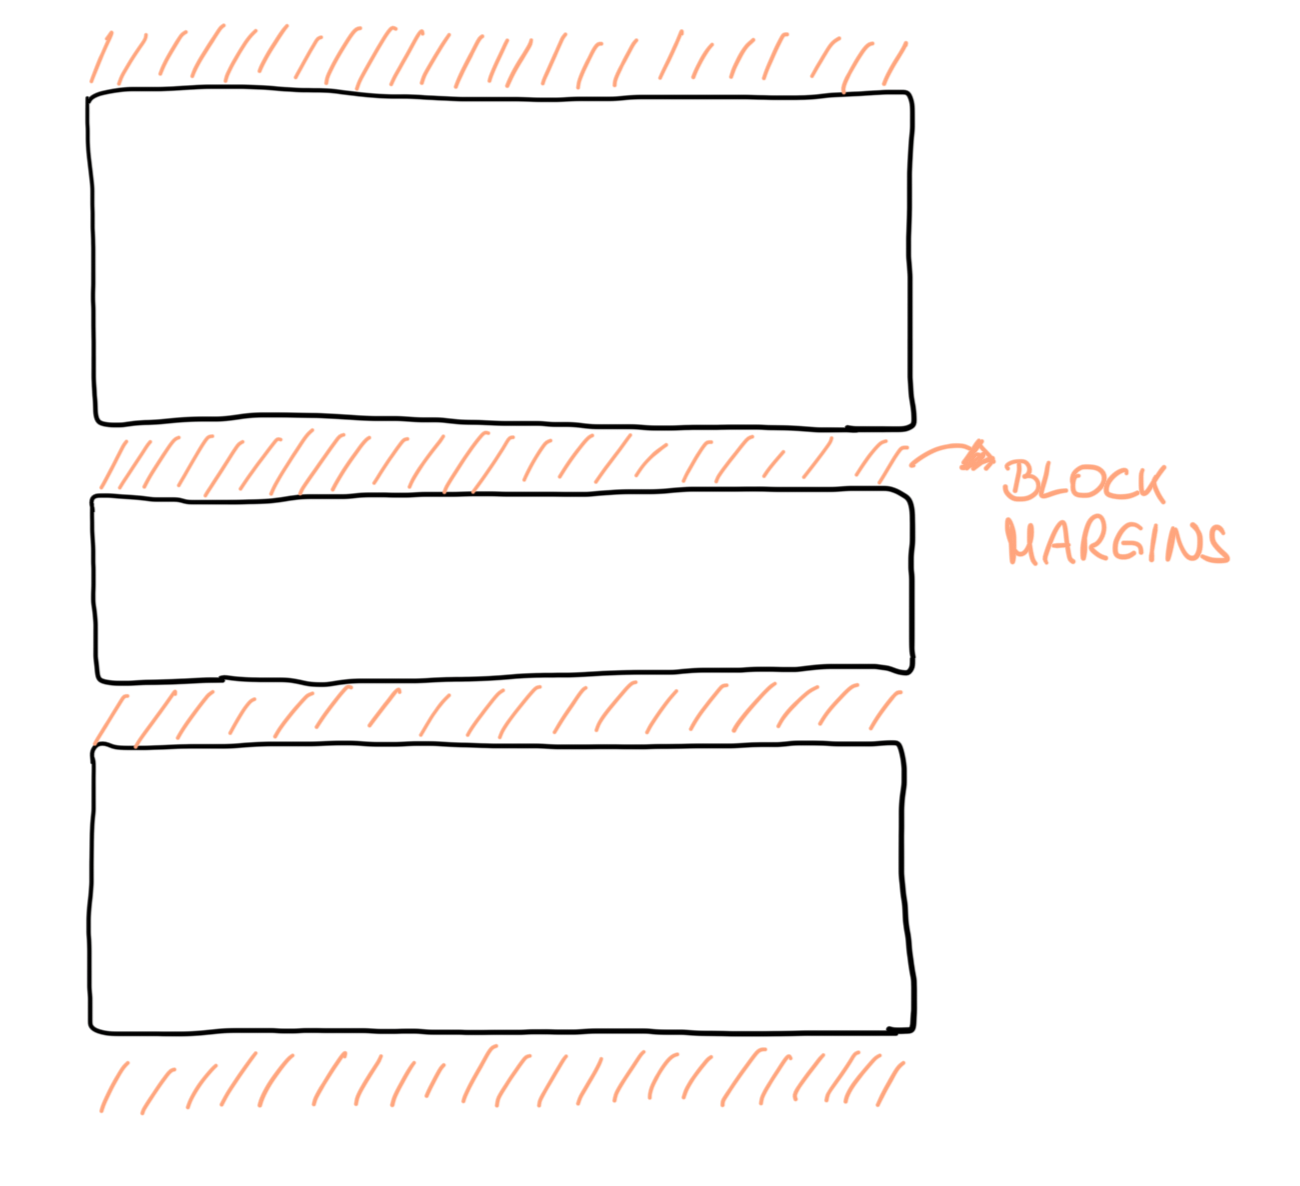
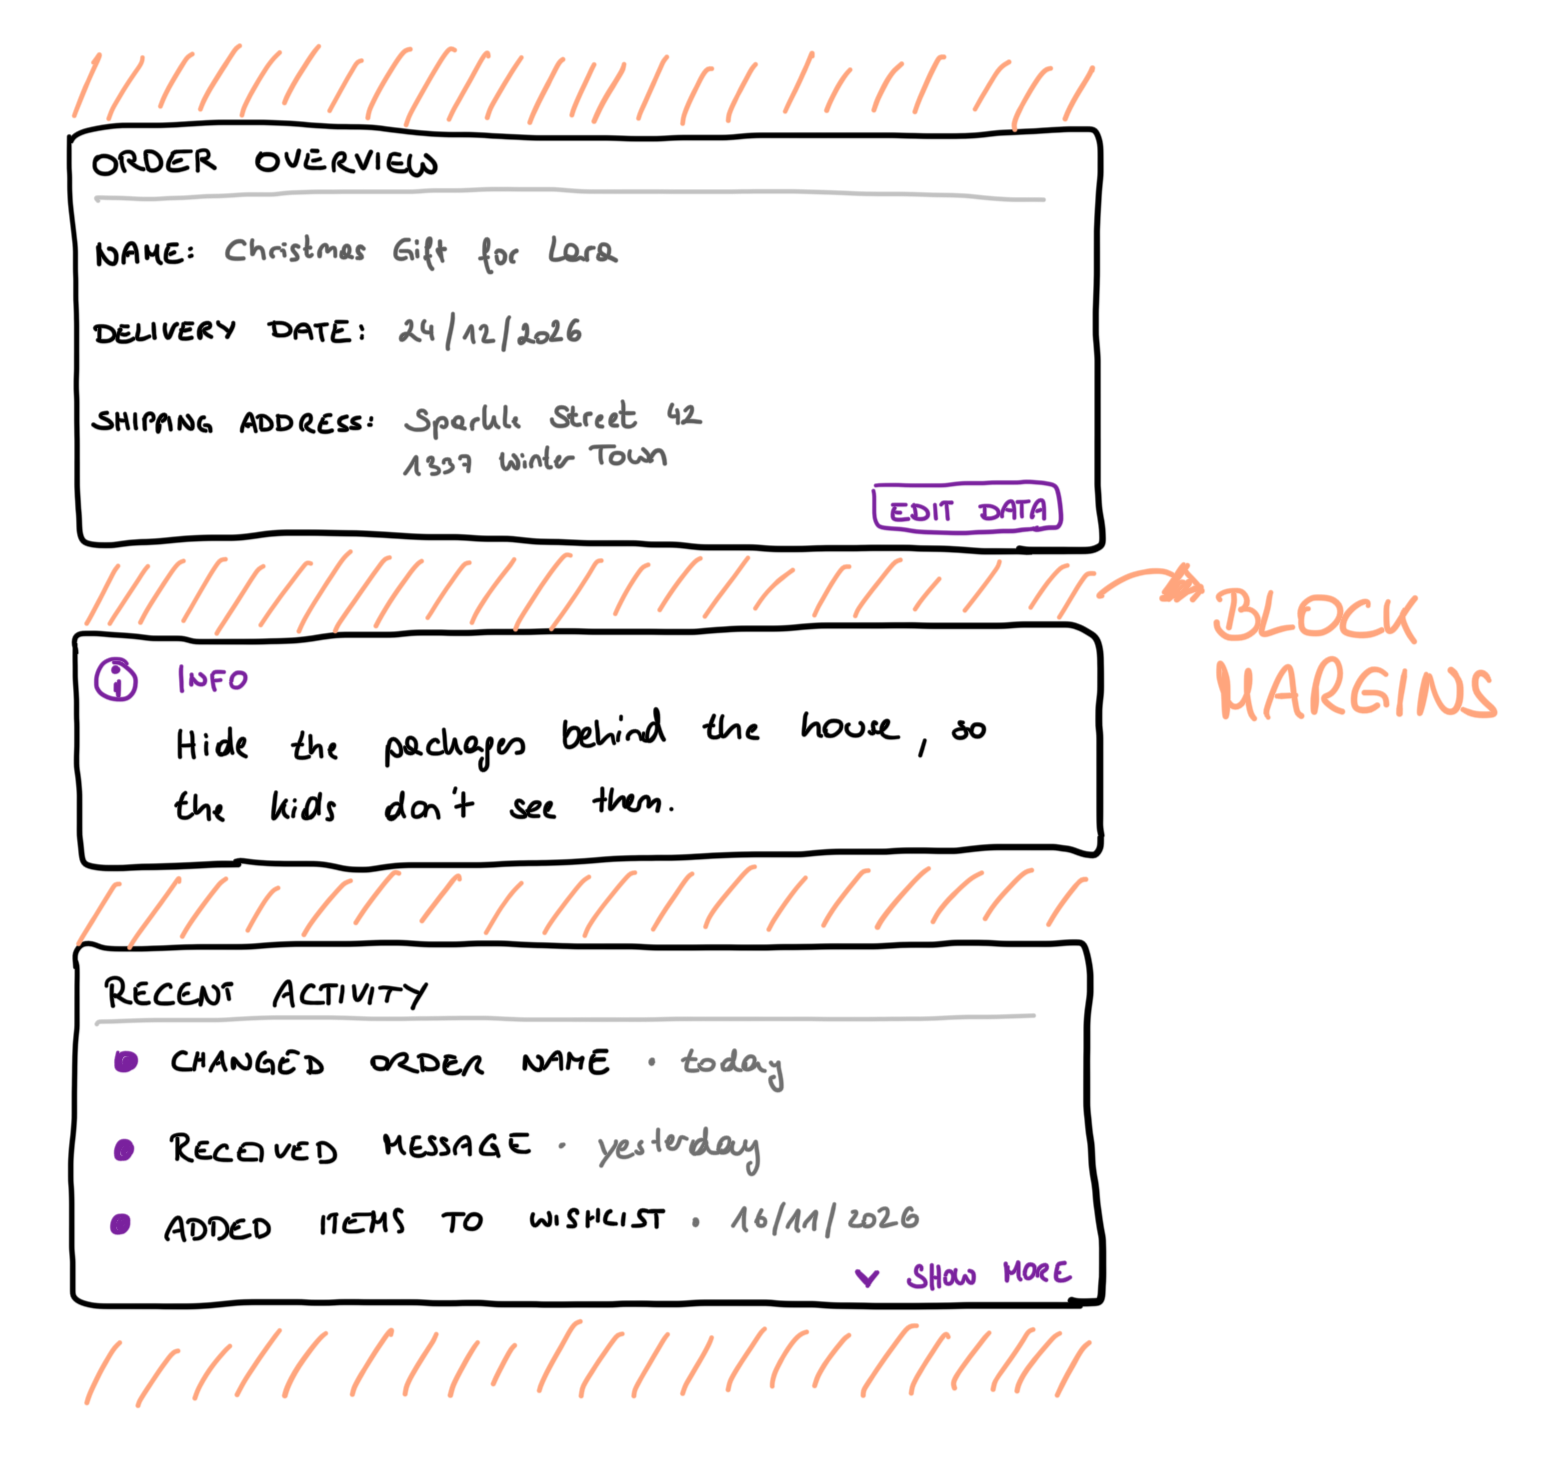
Update images according to PR review.

diff --git a/hell/adventcalendar/2026/15/index.md b/hell/adventcalendar/2026/15/index.md
@@ -29,11 +29,11 @@ In my experience, a “gut feeling” is often more helpful than rigid rules. Ne
 
 The default behavior of block elements in HTML is the following: they are stacked in block direction (usually from top to bottom). By adding block margins to these elements, we get some space between them. The element itself controls its surrounding space. This is the default behavior in a browser for certain elements (e.g., headings, paragraphs, lists) as specified by user-agent styles.
 
-![Three rectangles representing blocks of content surrounded by a hatched area representing block margins.](images/01-mind-the-gap-block-margins.png)
+![Three cards stacked on top of each other surrounded by a hatched area representing block margins. The first card contains an order overview: a christmas gift should be delivered to Lara on 24th of December 2026. The second box contains an info text saying: Hide the packages behind the house, so the kids don't see them. In the last card, the three latest activity feed entries are shown. The order name has been updated today, yesterday a message has been received and some days ago items were added to the wishlist.](images/01-mind-the-gap-block-margins.png)
 
 Often when creating layouts, we think differently: we want to have a parent element that controls the layout within. This mindset became mainstream with the introduction of CSS flexible box (flexbox) or grid layouts.
 
-![Three boxes surrounded by a dashed border that visualizes the wrapping layout component. Between the boxes are two gaps marked as a hatched area.](images/02-mind-the-gap-layout-wrapper.png)
+![Three cards stacked on top of each other surrounded by a dashed border that visualizes the wrapping layout component. Between the cards are two gaps marked as a hatched area. The first card contains an order overview: a christmas gift should be delivered to Lara at 24th of December 2026. The second box contains an info text saying: Hide the packages behind the house, so the kids don't see them. In the last card, the three latest activity feed entries are shown. The order name has been updated today, yesterday a message has been received and some days ago items were added to the wishlist.](images/02-mind-the-gap-layout-wrapper.png)
 
 Let’s say we work with a (vertical) stack component. We use it to create a consistent spacing between its child elements, for example, a stack of text content, cards or input elements:
 
@@ -56,7 +56,7 @@ Let’s say we work with a (vertical) stack component. We use it to create a con
 
 In the above examples, there is no block margin defined for `<my-text-block>`, `<my-card>` or `<my-text-input>`. The `<my-vertical-stack>` wrapper component handles the spacing between these items.
 
-![Three boxes representing input fields with a gap between each of them. In the right bottom corner sits a slightly smiling emoji.](images/03-mind-the-gap-inputs.png)
+![Three input fields (labelled order name, delivery date, and shipping address) with a gap between each of them. In the right bottom corner sits a slightly smiling emoji.](images/03-mind-the-gap-inputs.png)
 
 As time goes by, new features are requested and the markup needs to change. In the first example, we need to extend the existing text by adding another text block on top. In the second one, validation messages should appear below the input fields. Someone changes the code as follows:
 
@@ -86,7 +86,7 @@ All requirements are met, great! Well… only the functional ones. We now have s
 1. The two text blocks belong together, but they are now separated by the same spacing as the cards.
 2. The error message belongs to the preceding input field, but there’s now the same amount of whitespace between inputs and messages in both block directions.
 
-![Three boxes, each representing an input field, and black lines below them, visualizing a validation message. The elements are grouped by a single layout wrapper indicated by a dashed border. Between each input field and error message is the same amount of whitespace. In the bottom right corner is a grimacing face emoji.](images/04-mind-the-gap-inputs-errors-gaps.png)
+![Three input fields (labelled order name, delivery date, and shipping address) where the first two have a validation message below them ("The order name must be unique" after the name input and "The delivery date must be before 24/12/2026" after the date input). The elements are grouped by a single layout wrapper indicated by a dashed border. Between each input field and error message is the same amount of whitespace. In the bottom right corner is a grimacing face emoji.](images/04-mind-the-gap-inputs-errors-gaps.png)
 
 Let’s circle back to the law of proximity: elements that are related should be placed closer together.
 
@@ -123,7 +123,7 @@ To solve our layout issues, we need to introduce more markup to wrap the UI comp
 
 The `<div>` could also be replaced by `<my-vertical-stack spacing="small">`, it really depends on the context; but you get the idea! Elements that are related and belong together often require a common parent element to create the desired layouts.
 
-![Three boxes visualizing an input field. Below each box is a line representing an error message. The input field and the error message are placed closely together. After the validation message and the next input is a hatched area, representing some spacing (a gap in CSS). In the bottom right corner sits a smiling emoji with sunglasses on.](images/05-mind-the-gap-inputs-errors-grouped.png)
+![Three input fields (labelled order name, delivery date, and shipping address) where the first two have a validation message below them ("The order name must be unique" after the name input and "The delivery date must be before 24/12/2026" after the date input). The input fields and the error messages are placed closely together. After the validation message and the next input is a hatched area, representing some spacing (a gap in CSS). In the bottom right corner sits a smiling emoji with sunglasses on.](images/05-mind-the-gap-inputs-errors-grouped.png)
 
 ##  #2 Floating in a flex layout
 
@@ -191,7 +191,7 @@ What I find quite often in code bases is the following:
 
 The example code is inspired by JSX syntax. It describes a 2-column grid layout (using CSS grid behind the scenes) where the second card is only rendered when `showDetails` is `true`. The problem here is that the wrapping `div` element is rendered nonetheless. In case `showDetails` is `false`, the result in the output markup is an empty `div` as child element of the grid layout, which leads to an empty grid cell in the UI. This could be an intentional choice, though…
 
-![A 2x2 grid layout, visualized by a dashed frame and hatched areas for the grid gaps. In the first, third and fourth grid cell sits a rectangle. The second cell is empty.](images/10-mind-the-gap-empty-cell.png)
+![A 2x2 grid layout, visualized by a dashed frame and hatched areas for the grid gaps. In the first, third and fourth grid cell sits a card element each. The first card contains order overview data: a Christmas gift for Lara should be delivered on 24/12/2026. The third card contains a list of gifts and the fourth one the latest three activities. The second cell is empty.](images/10-mind-the-gap-empty-cell.png)
 
 On smaller viewports, however, the layout changes to a one-column grid, and we’re left with a grid gap followed by an empty cell with `0px` height followed by another grid gap. Visually, there is now a double-gap between the first and the second content element, which can look slightly off.
 
